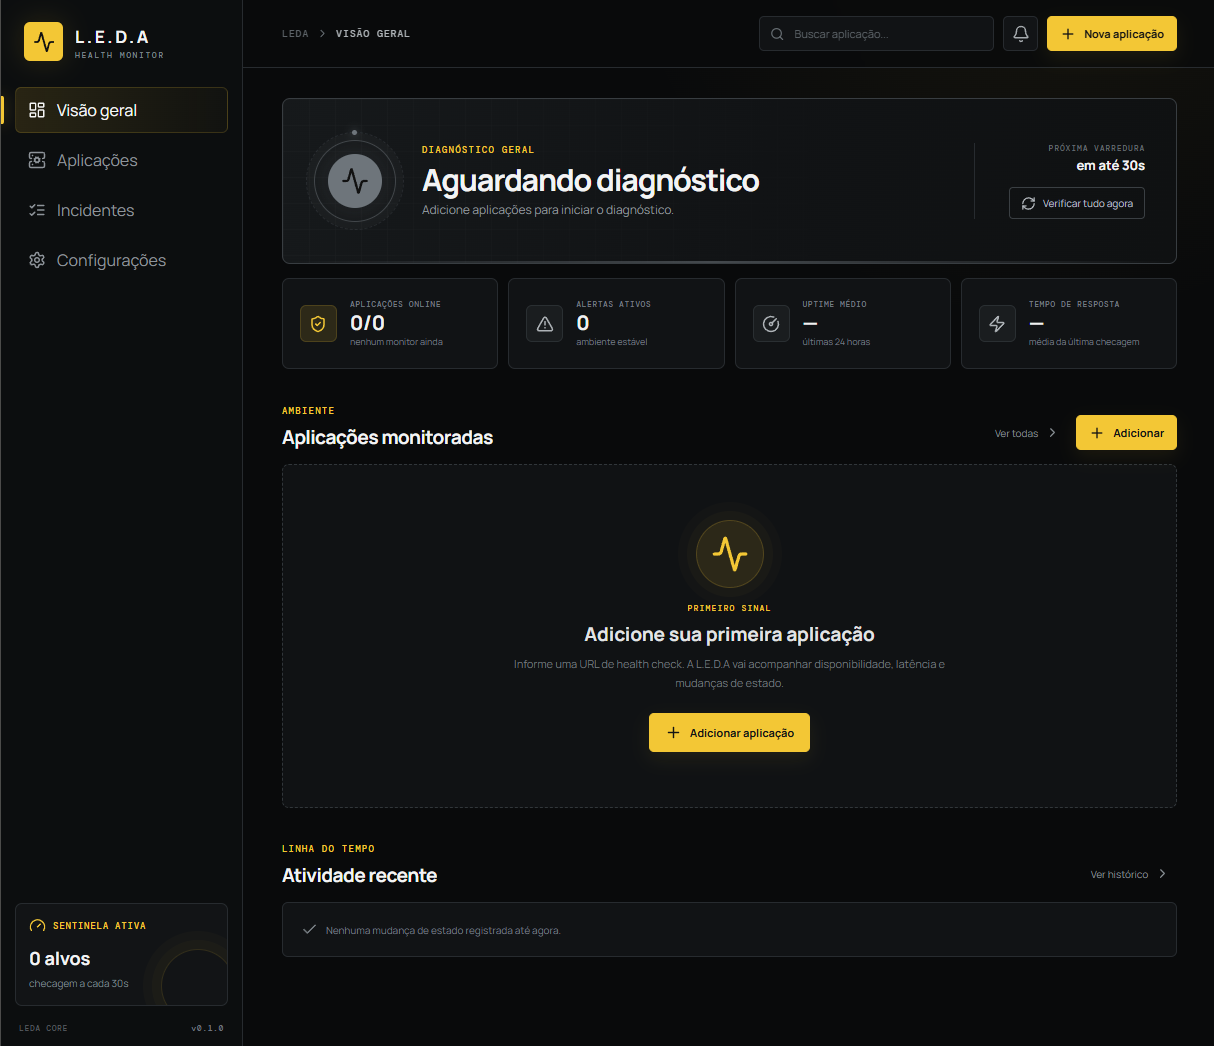
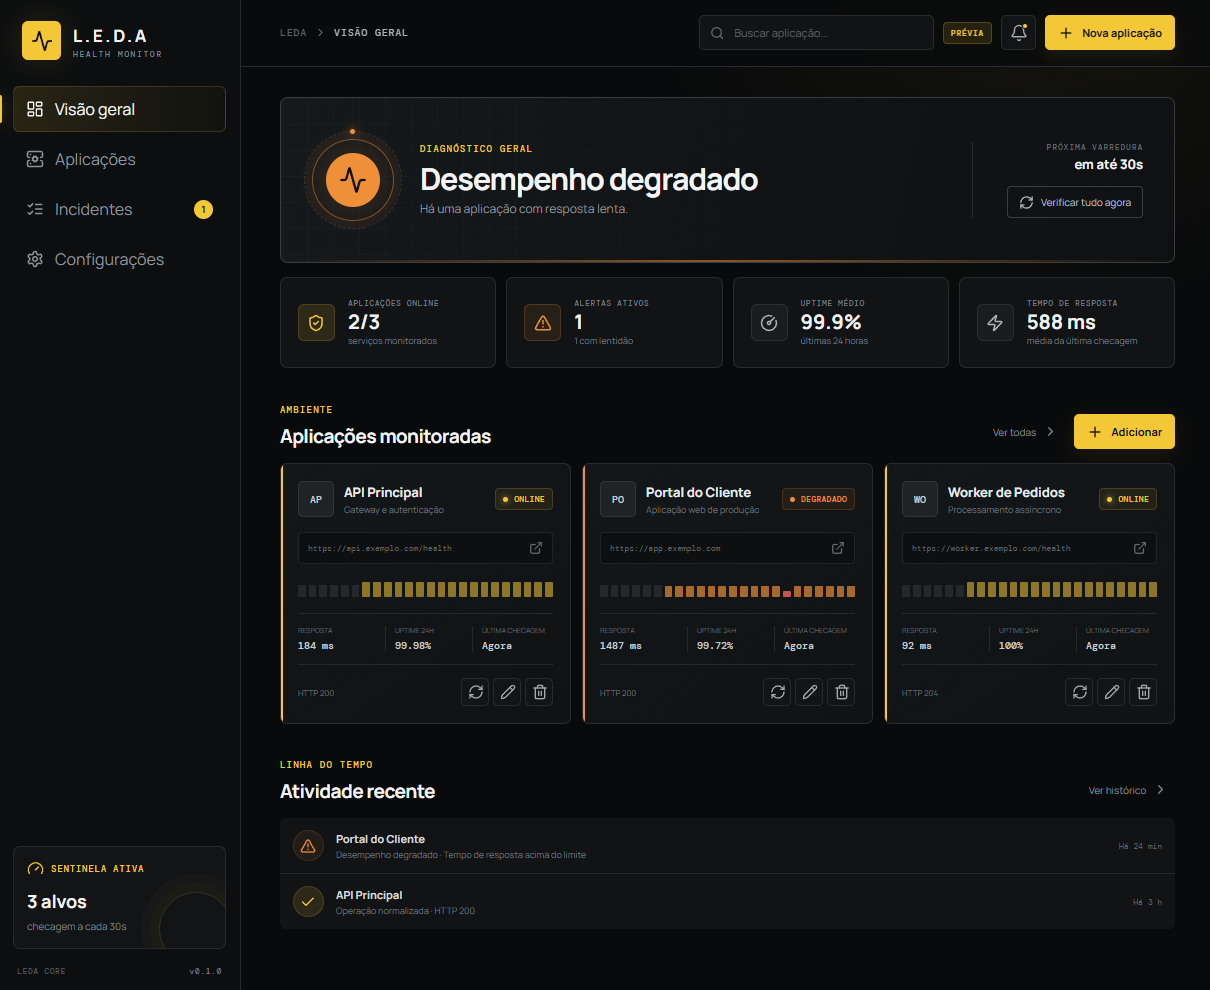
feat: manter monitor na bandeja do sistema

diff --git a/README.md b/README.md
@@ -16,7 +16,7 @@ Monitoramento local, contínuo e visual da saúde das suas aplicações.
 
 A **L.E.D.A** é uma sentinela desktop para Windows que acompanha endpoints HTTP/HTTPS, identifica indisponibilidade ou lentidão e mantém você informado sobre o estado das suas aplicações.
 
-As verificações continuam em segundo plano mesmo quando a janela é fechada. Quando uma aplicação cai, apresenta degradação ou volta ao normal, a L.E.D.A pode emitir uma notificação nativa do Windows.
+As verificações continuam em segundo plano mesmo quando a janela é fechada. A L.E.D.A permanece minimizada na bandeja do sistema, de onde você pode abrir o painel, disparar uma nova varredura ou encerrar o monitor. Quando uma aplicação cai, apresenta degradação ou volta ao normal, a L.E.D.A pode emitir uma notificação nativa do Windows.
 
 ## Principais recursos
 
@@ -31,7 +31,7 @@ As verificações continuam em segundo plano mesmo quando a janela é fechada. Q
 - Linha do tempo de mudanças de estado
 - Notificações nativas do Windows
 - Execução contínua em segundo plano
-- Inicialização automática junto com o Windows
+- Inicialização automática junto com o Windows, iniciando minimizada na bandeja do sistema
 - Armazenamento local, sem envio de dados para serviços externos
 
 ## Como funciona